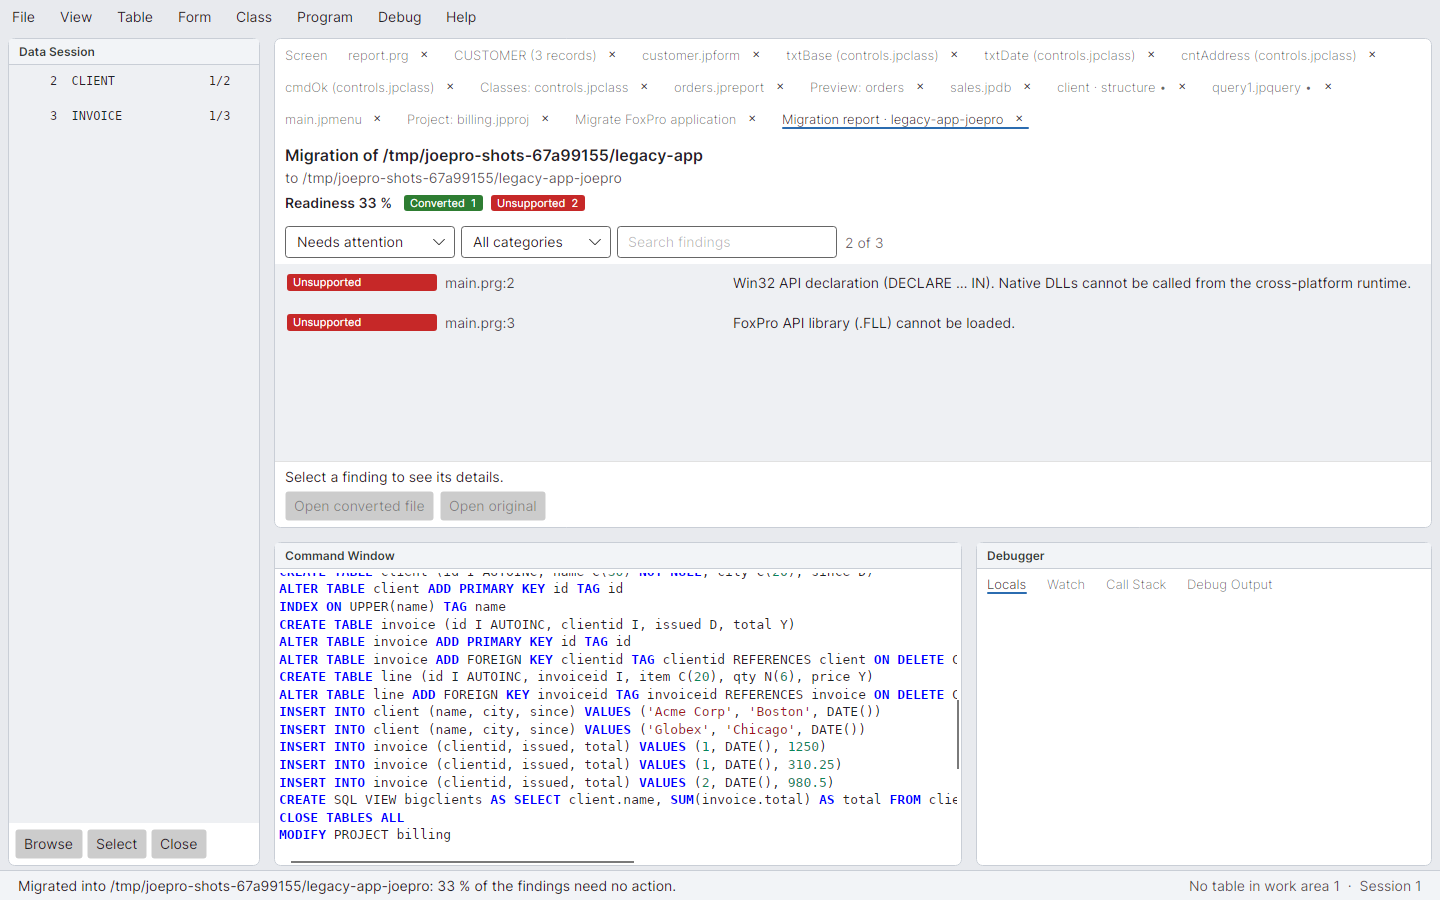
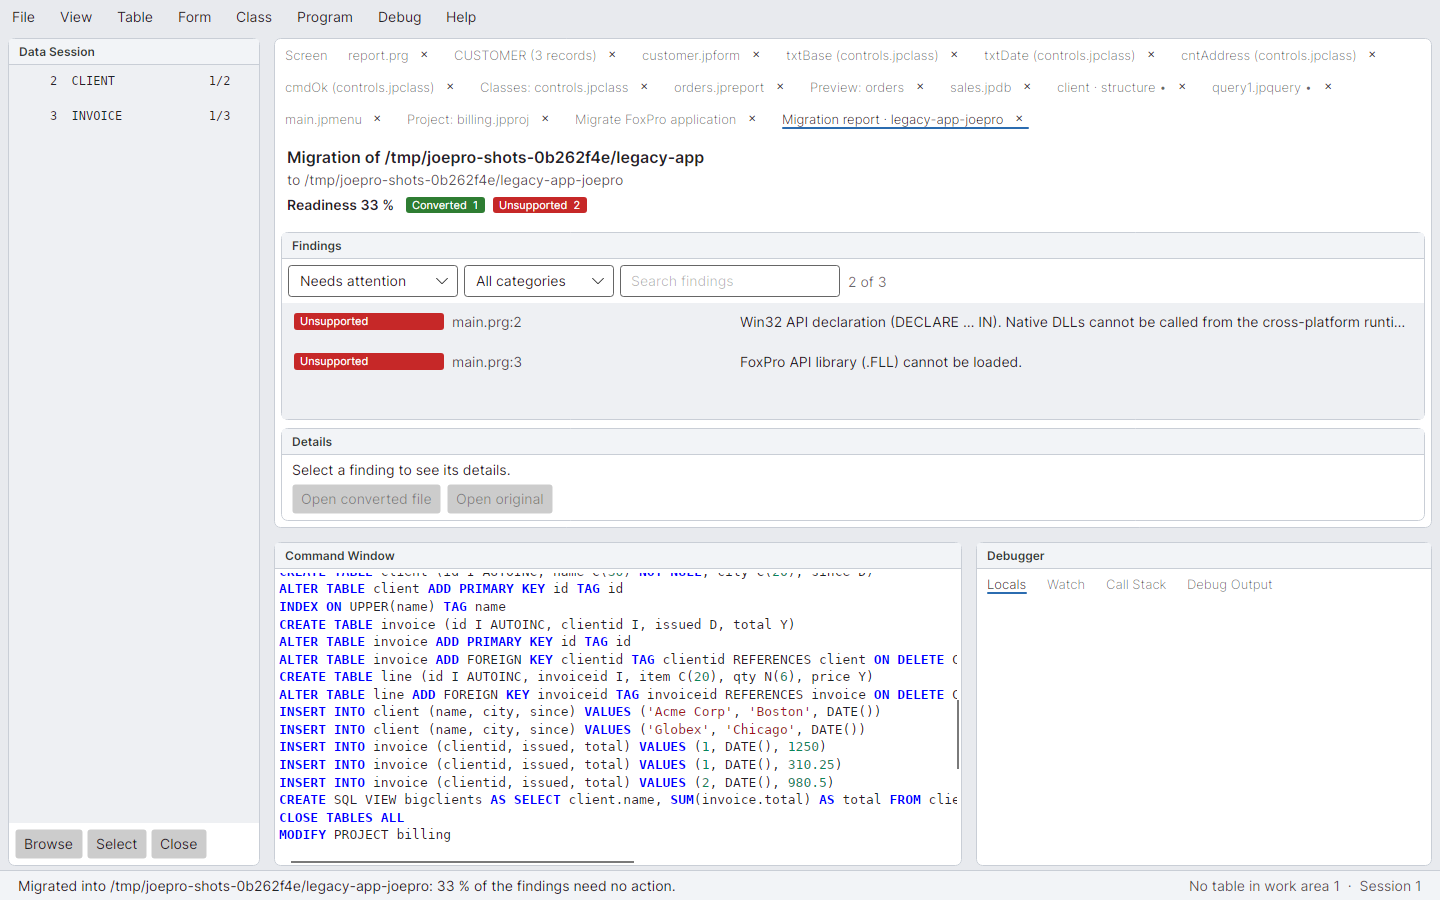
Migration report in outlined panels; status page function count; dark-theme screenshot switch
Claude-Session: https://claude.ai/code/session_01RDMm86zLe9FgL8KZcMp46j

Changed region(s): [[0.1875, 0.1556, 0.9688, 0.4356], [0.1875, 0.4667, 0.4062, 0.5911], [0.1562, 0.9644, 0.4688, 0.9956]]

diff --git a/src/JoePro.Ide/MigrationWizard.cs b/src/JoePro.Ide/MigrationWizard.cs
@@ -438,21 +438,24 @@ public sealed class MigrationReportView : UserControl
             chips.Children.Add(chip);
         }
         header.Children.Add(chips);
-        var filters = new StackPanel { Orientation = Orientation.Horizontal, Margin = new Thickness(10, 0, 10, 6), Children = { _status, _category, _search, _count } };
+        var filters = new StackPanel { Orientation = Orientation.Horizontal, Margin = new Thickness(6), Children = { _status, _category, _search, _count } };
         var detailsPanel = new StackPanel
         {
             Margin = new Thickness(10, 6),
             Children = { _details, new StackPanel { Orientation = Orientation.Horizontal, Children = { _openConverted, _openOriginal } } },
         };
-        var detailsBorder = new Border { BorderThickness = new Thickness(0, 1, 0, 0), BorderBrush = new SolidColorBrush(Color.FromArgb(60, 128, 128, 128)), Child = detailsPanel, MaxHeight = 220 };
-        var root = new DockPanel();
+        var detailsCard = IdeTheme.Card(Strings.T("Details"), detailsPanel);
+        detailsCard.MaxHeight = 240;
+        var findings = new DockPanel();
+        DockPanel.SetDock(filters, Dock.Top);
+        findings.Children.Add(filters);
+        findings.Children.Add(_list);
+        var root = new DockPanel { Margin = new Thickness(2) };
         DockPanel.SetDock(header, Dock.Top);
         root.Children.Add(header);
-        DockPanel.SetDock(filters, Dock.Top);
-        root.Children.Add(filters);
-        DockPanel.SetDock(detailsBorder, Dock.Bottom);
-        root.Children.Add(detailsBorder);
-        root.Children.Add(_list);
+        DockPanel.SetDock(detailsCard, Dock.Bottom);
+        root.Children.Add(detailsCard);
+        root.Children.Add(IdeTheme.Card(Strings.T("Findings"), findings));
         Content = root;
         Fill();
     }

diff --git a/tools/JoePro.Screenshots/Program.cs b/tools/JoePro.Screenshots/Program.cs
@@ -62,6 +62,8 @@ File.WriteAllText(Path.Combine(work, "report.prg"), """
     ENDSCAN
     """);
 
+// JOEPRO_SHOTS_THEME=dark renders the designer screenshots in the dark theme (to check it; docs use light).
+var designerVariant = Environment.GetEnvironmentVariable("JOEPRO_SHOTS_THEME") == "dark" ? ThemeVariant.Dark : ThemeVariant.Light;
 foreach (var (variant, file) in new[] { (ThemeVariant.Light, "ide-light.png"), (ThemeVariant.Dark, "ide-dark.png") })
 {
     Application.Current!.RequestedThemeVariant = variant;
@@ -90,7 +92,7 @@ foreach (var (variant, file) in new[] { (ThemeVariant.Light, "ide-light.png"), (
     Pump();
     Save(window, Path.Combine(output, file));
 
-    if (variant == ThemeVariant.Light)
+    if (variant == designerVariant)
     {
         window.Documents.SelectedIndex = 1;
         Pump();

diff --git a/docs/status/README.md b/docs/status/README.md
@@ -27,7 +27,7 @@ What exists today, measured against the [roadmap](../plan/03-roadmap.md). Update
 | INSERT / UPDATE / DELETE SQL, CREATE/ALTER TABLE, CREATE CURSOR | ✅ Done |
 | Language: procedures, scoping, arrays, TRY/CATCH, ON ERROR, macros, TEXT/TEXTMERGE, preprocessor | ✅ Done ([ADR 0002](../adr/0002-tree-walking-interpreter-first.md)) |
 | OOP: DEFINE CLASS, inheritance, ADD OBJECT, DODEFAULT, access/assign, Collection | ✅ Done |
-| Built-in functions | 🟡 [282 implemented](functions.md), prioritized by frequency in typical code |
+| Built-in functions | ✅ 369 of the 427 VFP 9 functions implemented, the rest listed as unsupported with a reason ([coverage](../reference/coverage.md)) |
 | Command Window | ✅ In the IDE (Enter runs the line or selection; blocks collect until complete; earlier lines can be re-run), plus the console `joepro` |
 | Browse window | ✅ Editable grid in the IDE: edits write back with REPLACE (rules and triggers apply), append, Ctrl+T toggles deleted. Loads up to 100,000 rows; paging is a later milestone |
 | Basic form runtime | ✅ Forms from code (`DEFINE CLASS … AS Form`) or `.jpform` files (`DO FORM`) render with Avalonia: Label, TextBox, EditBox, CommandButton, CheckBox, OptionGroup, CommandGroup, ComboBox/ListBox, Spinner, Shape, Line, Image, Container, PageFrame, Grid, Timer; ControlSource binding; VFP event order; private data sessions |
